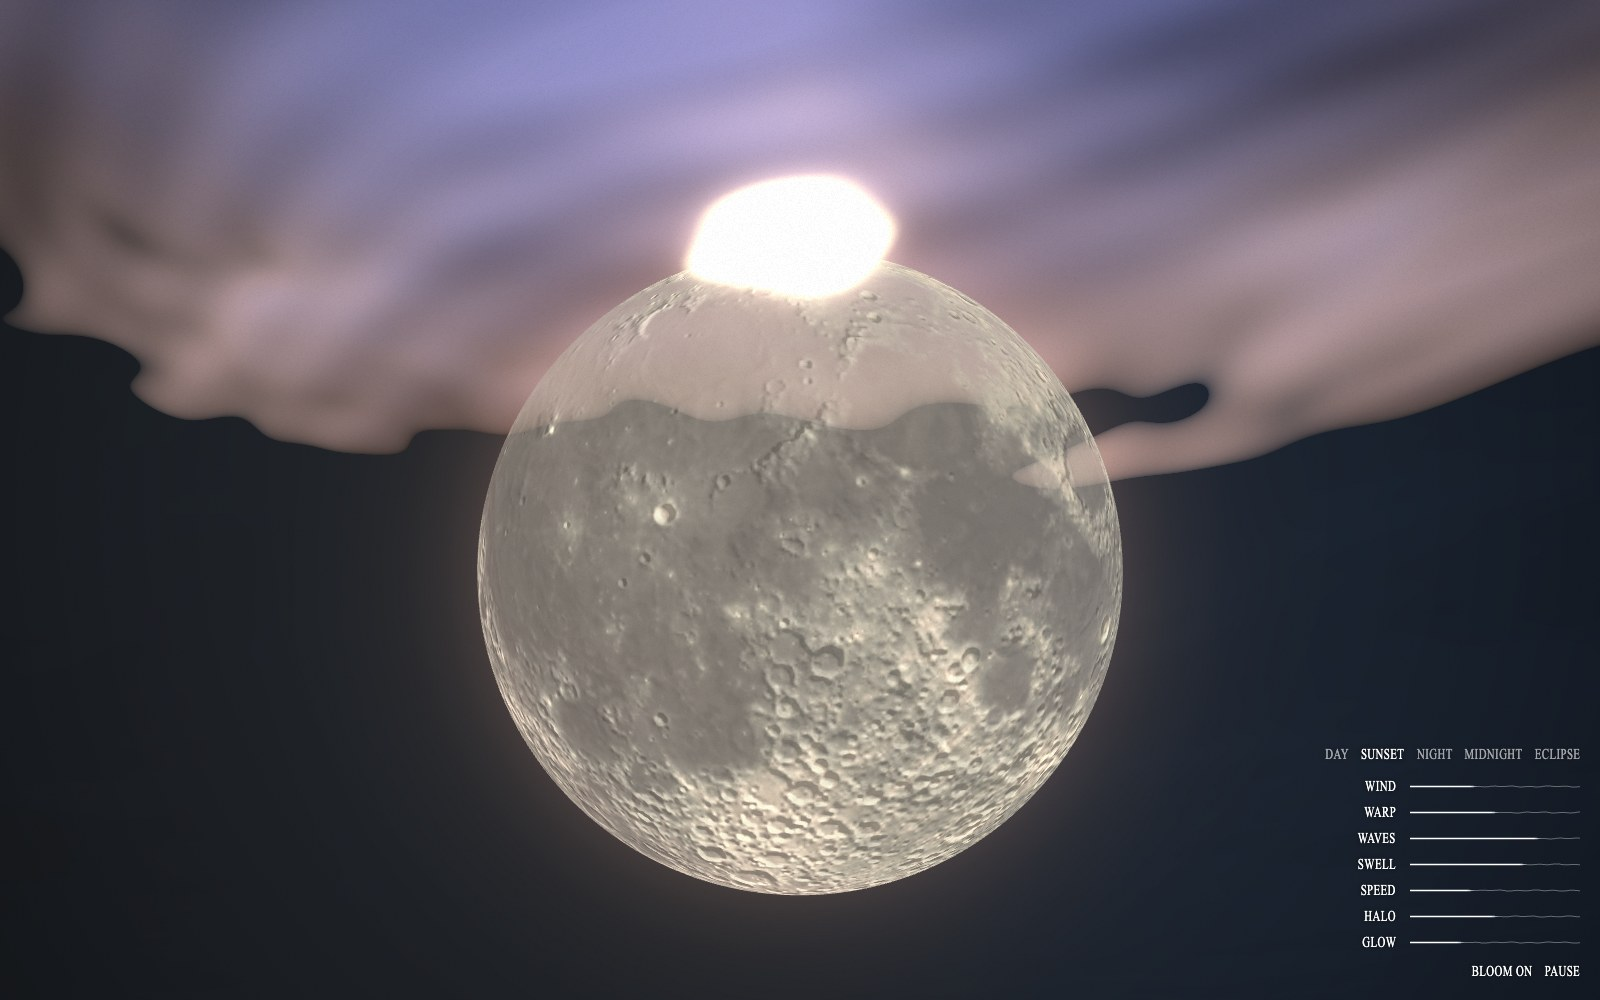
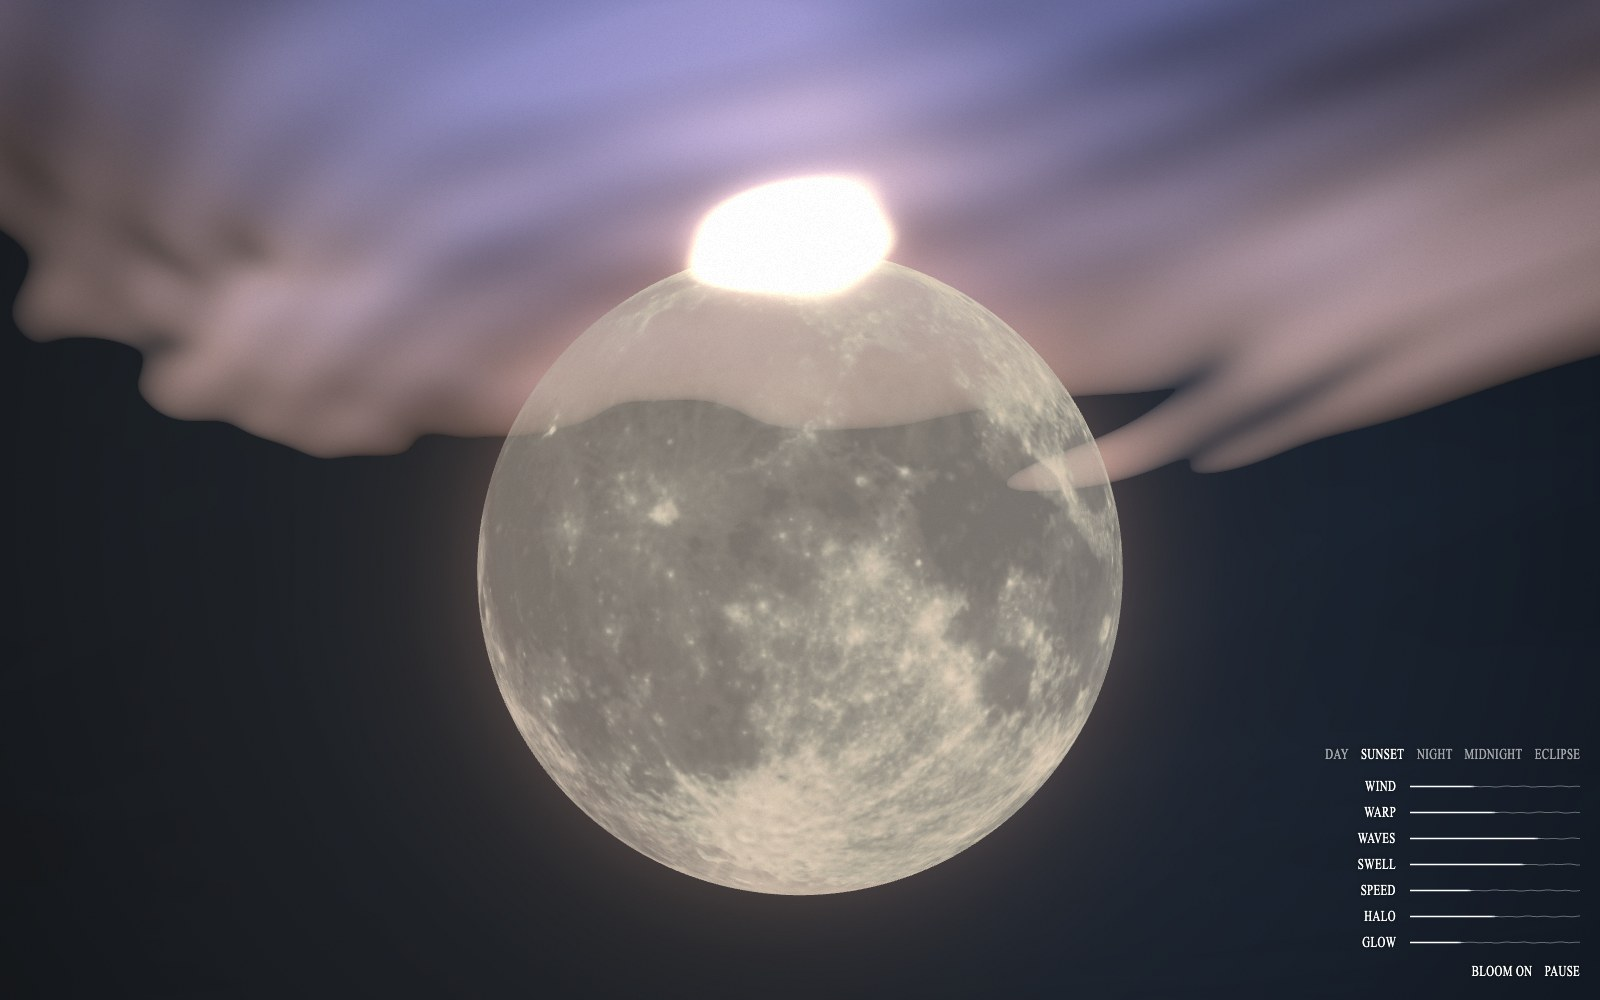
Use the regular normal map by day

diff --git a/public/games/flymetothemoon/index.html b/public/games/flymetothemoon/index.html
@@ -783,7 +783,7 @@
       deepL: [0.09,0.19,0.25], deepR: [0.10,0.21,0.29], upLight: [0.05,0.13,0.16],
       skyLow: [0.50,0.70,0.88], skyHigh: [0.28,0.52,0.85], glowA: [0.10,0.10,0.08], glowB: [0.18,0.18,0.15],
       halo: [0.04,0.075,0.085], image: [1.0,1.0,1.0], bloom: [0.85,0.92,1.0],
-      moonMul: [1,1,1], moonMix: [0.97,0.98,1.0,0.78], moonDark: [0.20,0.30,0.36], moonSee: 1.0, relief: 1.0 },
+      moonMul: [1,1,1], moonMix: [0.97,0.98,1.0,0.78], moonDark: [0.20,0.30,0.36], moonSee: 1.0, relief: 0 },
     { name: 'Sunset',
       deepL: [0.14,0.07,0.05], deepR: [0.10,0.06,0.08], upLight: [0.10,0.05,0.02],
       skyLow: [0.92,0.45,0.18], skyHigh: [0.40,0.24,0.36], glowA: [0.30,0.16,0.06], glowB: [0.40,0.28,0.14],

diff --git a/README.md b/README.md
@@ -58,7 +58,7 @@ Drag the moon to spin it. Let go mid-drag to throw it; press on it while it's tu
 
 Five sky presets, at the top of the controls, set the time of day. Every colour in the scene comes from one palette: the water on both sides, the light falling from above, the sky seen through the surface and the glow around the moon in it, the reflection and its bloom, the halo, and the moon's own tint, shadow, see-through and crater relief. Pressing a preset fades every colour across to the new look over about a second.
 
-**Day:** a bright blue sky through the surface and teal water. The moon looks the way it does in daylight: it's washed almost white, its darkness maps straight to transparency (the dark seas vanish into the water and sky behind, the bright highlands stay solid), the craters show crisply across the whole face, and the glow around it all but disappears.
+**Day:** a bright blue sky through the surface and teal water. The moon looks the way it does in daylight: it's washed almost white, its darkness maps straight to transparency (the dark seas vanish into the water and sky behind, the bright highlands stay solid), and the glow around it all but disappears.
 
 ![Day](docs/screenshots/12-sky-day.jpg)
 
